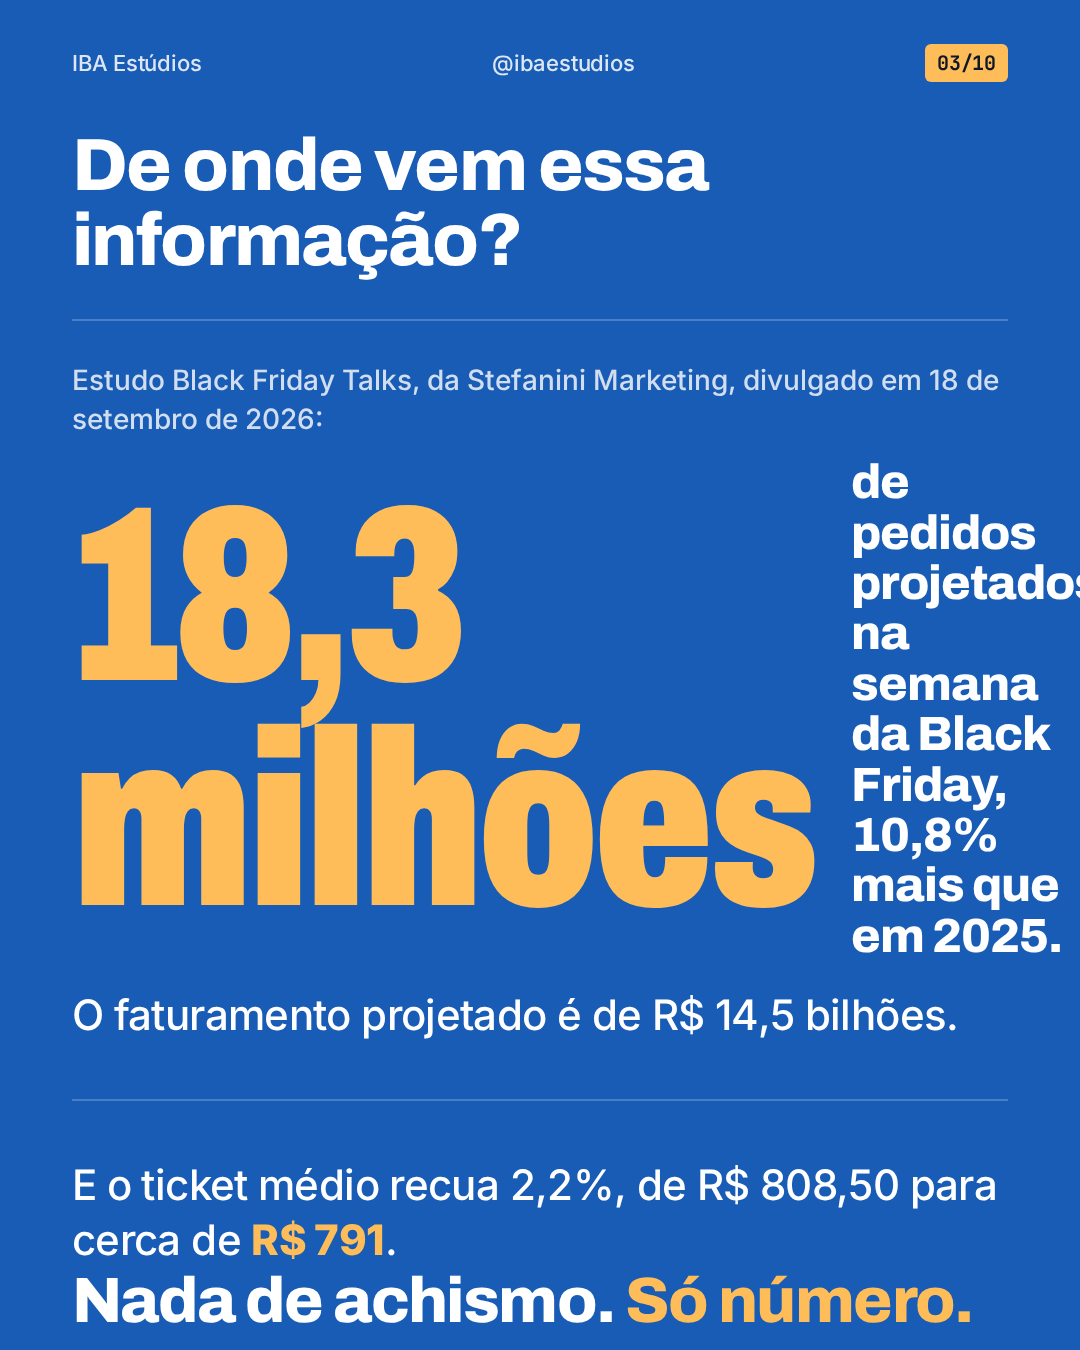
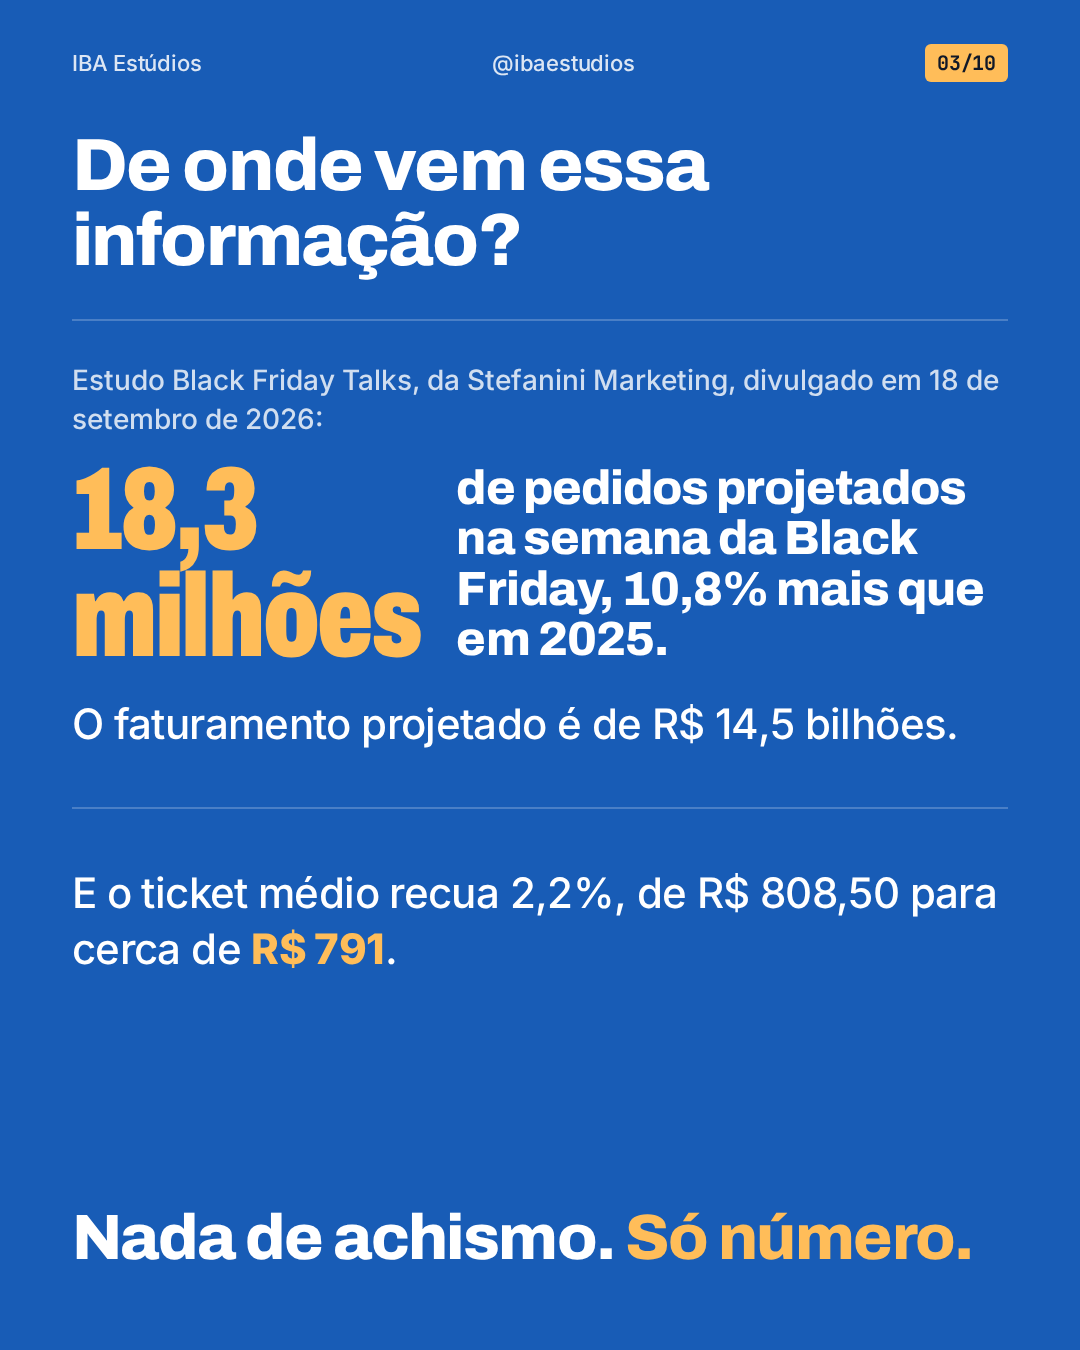
carrosseis: margens medidas (numero escala pelo comprimento, texto com tam_corpo) + sensor mede_margens

Changed region(s): [[0.0611, 0.3422, 1.0, 0.7156], [0.0611, 0.8711, 0.9167, 0.9956], [0.0611, 0.7156, 0.8861, 0.7778]]

diff --git a/conteudo/carrosseis/pico-de-novembro/instagram/slide-02.html b/conteudo/carrosseis/pico-de-novembro/instagram/slide-02.html
@@ -5,9 +5,9 @@
 <div class="slide branco">
   <div class="topo"><span>IBA Estúdios</span><span>@ibaestudios</span><span class="num">02/10</span></div>
 
-  <h2 class="h" style="font-size:88px">A data deste ano vem com <em>mais pedido e menos ticket</em>.</h2>
+  <h2 class="h" style="font-size:76px">A data deste ano vem com <em>mais pedido e menos ticket</em>.</h2>
   <hr style="margin:56px 0">
-  <p class="p" style="font-size:44px">O estudo Black Friday Talks, feito pela Stefanini Marketing e divulgado em setembro, projetou 18,3 milhões de pedidos na semana da data, 10,8% mais que em 2025, com faturamento perto de R$ 14,5 bilhões e ticket médio 2,2% menor. Mais gente perguntando, compra menor e volume de conversa muito maior.</p>
+  <p class="p" style="font-size:38px">O estudo Black Friday Talks, da Stefanini Marketing, projetou 18,3 milhões de pedidos na semana da data, 10,8% mais que em 2025, com ticket médio 2,2% menor. Mais gente perguntando, compra menor e volume de conversa muito maior.</p>
   <div class="spacer"></div>
   <p class="p"><span class="sub">O que isso mexe:</span></p>
   <ul class="setas" style="margin-top:28px"><li>O tempo de resposta, que já é o gargalo nos dias comuns</li><li>A dúvida repetida (preço, prazo, entrega), que consome o dia inteiro</li><li>A venda de quem demora, que o cliente faz no concorrente que respondeu primeiro</li></ul>

diff --git a/conteudo/carrosseis/golpe-que-usa-seu-nome/instagram/slide-02.html b/conteudo/carrosseis/golpe-que-usa-seu-nome/instagram/slide-02.html
@@ -5,9 +5,9 @@
 <div class="slide branco">
   <div class="topo"><span>IBA Estúdios</span><span>@ibaestudios</span><span class="num">02/10</span></div>
 
-  <h2 class="h" style="font-size:88px">O golpista parou de mandar texto genérico. Ele agora copia <em>a sua loja</em>.</h2>
+  <h2 class="h" style="font-size:80px">O golpista parou de mandar texto genérico. Ele agora copia <em>a sua loja</em>.</h2>
   <hr style="margin:56px 0">
-  <p class="p" style="font-size:44px">O relatório State of Scams in Brazil, da Global Anti-Scam Alliance, saiu em agosto. O criminoso não manda mais aquele texto esquisito para todo mundo: ele monta o perfil da sua loja, usa a sua logo e conversa como se fosse o seu atendimento.</p>
+  <p class="p" style="font-size:40px">O relatório State of Scams in Brazil, da Global Anti-Scam Alliance, saiu em agosto. O criminoso não manda mais aquele texto esquisito para todo mundo: ele monta o perfil da sua loja, usa a sua logo e conversa como se fosse o seu atendimento.</p>
   <div class="spacer"></div>
   <p class="p"><span class="sub">O que isso mexe:</span></p>
   <ul class="setas" style="margin-top:28px"><li>A confiança de quem te procura pela primeira vez</li><li>O nome da sua marca, queimado por um golpe que não é seu</li><li>O cliente que some sem reclamar, porque achou que você aplicou o golpe</li></ul>

diff --git a/conteudo/carrosseis/golpe-que-usa-seu-nome/instagram/slide-03.html b/conteudo/carrosseis/golpe-que-usa-seu-nome/instagram/slide-03.html
@@ -12,7 +12,7 @@
   <h2 class="h">De onde vem essa informação?</h2>
   <hr>
   <p class="mini" style="font-size:28px;opacity:.8">Relatório State of Scams in Brazil, da Global Anti-Scam Alliance, divulgado em agosto de 2026:</p>
-  <div class="big"><span class="n">64%</span><span class="t">das tentativas de golpe no Brasil passam pelo WhatsApp.</span></div>
+  <div class="big"><span class="n" style="font-size:250px">64%</span><span class="t">das tentativas de golpe no Brasil passam pelo WhatsApp.</span></div>
   <p class="p" style="font-size:42px">É o canal onde o seu negócio atende todo dia.</p>
   <hr style="margin:56px 0"><p class="p" style="font-size:42px">No mesmo relatório, 16,5 milhões de brasileiros perderam dinheiro, com prejuízo estimado em <b class="dest">R$ 21,2 bilhões</b>.</p><div class="spacer"></div><p class="h" style="font-size:64px">Nada de achismo. <em>Só número.</em></p>
 </div>

diff --git a/conteudo/carrosseis/pico-de-novembro/instagram/slide-03.html b/conteudo/carrosseis/pico-de-novembro/instagram/slide-03.html
@@ -12,7 +12,7 @@
   <h2 class="h">De onde vem essa informação?</h2>
   <hr>
   <p class="mini" style="font-size:28px;opacity:.8">Estudo Black Friday Talks, da Stefanini Marketing, divulgado em 18 de setembro de 2026:</p>
-  <div class="big"><span class="n">18,3 milhões</span><span class="t">de pedidos projetados na semana da Black Friday, 10,8% mais que em 2025.</span></div>
+  <div class="big"><span class="n" style="font-size:118px">18,3 milhões</span><span class="t">de pedidos projetados na semana da Black Friday, 10,8% mais que em 2025.</span></div>
   <p class="p" style="font-size:42px">O faturamento projetado é de R$ 14,5 bilhões.</p>
   <hr style="margin:56px 0"><p class="p" style="font-size:42px">E o ticket médio recua 2,2%, de R$ 808,50 para cerca de <b class="dest">R$ 791</b>.</p><div class="spacer"></div><p class="h" style="font-size:64px">Nada de achismo. <em>Só número.</em></p>
 </div>

diff --git a/conteudo/carrosseis/pico-de-novembro/instagram/slide-10.html b/conteudo/carrosseis/pico-de-novembro/instagram/slide-10.html
@@ -13,7 +13,7 @@
   <p class="p" style="margin-top:22px;font-size:44px;font-weight:700;color:var(--laranja)">E no dia 27, com bem mais mensagem chegando ao mesmo tempo?</p>
   <img class="foto" src="../imagens/celular.jpg" style="height:400px;margin:40px 0 44px;object-position:50% 35%" alt="">
   <div class="cta">Comenta <b>"BLACKFRIDAY"</b></div>
-  <p class="p" style="margin-top:28px;font-size:34px">e eu te mando uma análise gratuita: 2 a 3 pontos onde o seu negócio perde venda no dia de pico.</p>
+  <p class="p" style="margin-top:28px;font-size:34px">e eu te mando uma análise gratuita: 2 a 3 pontos onde o seu negócio perde venda.</p>
   <div class="spacer"></div>
   <div class="assina"><img src="../../_modelo/marca/no-branco.png" alt=""><span>a IBA dá um nó nos seus processos 🐙</span></div>
 </div>

diff --git a/conteudo/carrosseis/golpe-que-usa-seu-nome/instagram/slide-10.html b/conteudo/carrosseis/golpe-que-usa-seu-nome/instagram/slide-10.html
@@ -13,7 +13,7 @@
   <p class="p" style="margin-top:22px;font-size:44px;font-weight:700;color:var(--laranja)">Antes de pagar, ele consegue confirmar que o canal é o seu?</p>
   <img class="foto" src="../imagens/balcao.jpg" style="height:400px;margin:40px 0 44px;object-position:50% 35%" alt="">
   <div class="cta">Comenta <b>"SEGURANCA"</b></div>
-  <p class="p" style="margin-top:28px;font-size:34px">e eu te mando uma análise gratuita: 2 a 3 pontos onde o seu negócio perde cliente hoje.</p>
+  <p class="p" style="margin-top:28px;font-size:34px">e eu te mando uma análise gratuita: 2 a 3 pontos onde o seu negócio perde cliente.</p>
   <div class="spacer"></div>
   <div class="assina"><img src="../../_modelo/marca/no-branco.png" alt=""><span>a IBA dá um nó nos seus processos 🐙</span></div>
 </div>

diff --git a/conteudo/carrosseis/_modelo/mede_margens.py b/conteudo/carrosseis/_modelo/mede_margens.py
@@ -1,0 +1,81 @@
+"""Mede as margens dos PNGs de um carrossel ja renderizado.
+
+Uso:  /opt/data/.venv/bin/python conteudo/carrosseis/_modelo/mede_margens.py <tema>
+
+Regra do formato: 72px nas laterais e 80px na base. Saem da conta o slide 1 (capa, com foto
+em tela cheia) e o slide 6 (conversa, cujo painel e largo por desenho, igual aos carrosseis
+ja aprovados).
+
+Quando acusa, quase sempre e uma destas duas coisas:
+- layout `texto` com corpo comprido: o texto empurra a base para fora (encurtar ou passar
+  tam_titulo/tam_corpo menores);
+- layout `numero` com numero longo: o corpo do numero estoura a direita (o modelo ja reduz
+  o tamanho pelo comprimento do numero).
+
+Sai com codigo 1 quando algum slide fica fora da margem.
+"""
+import os
+import sys
+from collections import Counter
+
+try:
+    from PIL import Image, ImageChops
+except ImportError:
+    sys.exit("precisa do Pillow: rode com /opt/data/.venv/bin/python")
+
+ESQ = DIR = 72
+BASE = 80
+IGNORAR = {1, 6}
+TOLERANCIA = 3
+
+
+def medir(png):
+    im = Image.open(png).convert("RGB")
+    largura, altura = im.size
+    fundo = Counter(im.get_flattened_data() if hasattr(im, "get_flattened_data") else im.getdata()).most_common(1)[0][0]
+    bbox = ImageChops.difference(im, Image.new("RGB", im.size, fundo)).getbbox()
+    if not bbox:
+        return None
+    esq, _, dir_, base = bbox
+    return esq, largura - dir_, altura - base
+
+
+def main(pasta_tema):
+    instagram = os.path.join(pasta_tema, "instagram")
+    if not os.path.isdir(instagram):
+        sys.exit(f"sem pasta instagram em {pasta_tema}")
+    pngs = sorted(p for p in os.listdir(instagram) if p.endswith(".png"))
+    if not pngs:
+        sys.exit(f"sem PNG em {instagram}")
+    fora = 0
+    print(f"{os.path.basename(pasta_tema.rstrip('/'))}: {len(pngs)} slides")
+    for nome in pngs:
+        numero = int(nome.split("-")[1].split(".")[0])
+        if numero in IGNORAR:
+            continue
+        m = medir(os.path.join(instagram, nome))
+        if m is None:
+            print(f"  slide {numero:02d}: vazio")
+            continue
+        esq, dir_, base = m
+        problemas = []
+        if esq < ESQ - TOLERANCIA:
+            problemas.append(f"esquerda {esq}px (minimo {ESQ})")
+        if dir_ < DIR - TOLERANCIA:
+            problemas.append(f"direita {dir_}px (minimo {DIR})")
+        if base < BASE - TOLERANCIA:
+            problemas.append(f"base {base}px (minimo {BASE})")
+        if problemas:
+            fora += 1
+            print(f"  slide {numero:02d}: FORA - " + "; ".join(problemas))
+    if fora:
+        print(f"resultado: {fora} slide(s) fora da margem")
+        return 1
+    print("resultado: todas as margens ok")
+    return 0
+
+
+if __name__ == "__main__":
+    if len(sys.argv) < 2:
+        sys.exit("uso: mede_margens.py <pasta do tema>")
+    raise SystemExit(main(sys.argv[1]))

diff --git a/conteudo/carrosseis/pico-de-novembro/roteiro.py b/conteudo/carrosseis/pico-de-novembro/roteiro.py
@@ -10,10 +10,11 @@ slides = [
     capa('capa.jpg', 'O pico de novembro', 'se prepara agora', 'Atendimento, resposta e informação na mão do cliente',
          fundo='branco', foto_css='width:1200px;height:1800px;left:-60px;top:-430px'),
     texto('branco', 'A data deste ano vem com *mais pedido e menos ticket*.',
-          'O estudo Black Friday Talks, feito pela Stefanini Marketing e divulgado em setembro, projetou 18,3 milhões de pedidos na semana da data, 10,8% mais que em 2025, com faturamento perto de R$ 14,5 bilhões e ticket médio 2,2% menor. Mais gente perguntando, compra menor e volume de conversa muito maior.',
+          'O estudo Black Friday Talks, da Stefanini Marketing, projetou 18,3 milhões de pedidos na semana da data, 10,8% mais que em 2025, com ticket médio 2,2% menor. Mais gente perguntando, compra menor e volume de conversa muito maior.',
           'O que isso mexe:', ['O tempo de resposta, que já é o gargalo nos dias comuns',
                                'A dúvida repetida (preço, prazo, entrega), que consome o dia inteiro',
-                               'A venda de quem demora, que o cliente faz no concorrente que respondeu primeiro']),
+                               'A venda de quem demora, que o cliente faz no concorrente que respondeu primeiro'],
+          tam_titulo=76, tam_corpo=38),
     numero('azul', 'De onde vem essa informação?',
            'Estudo Black Friday Talks, da Stefanini Marketing, divulgado em 18 de setembro de 2026:',
            '18,3 milhões', 'de pedidos projetados na semana da Black Friday, 10,8% mais que em 2025.',
@@ -53,7 +54,7 @@ slides = [
     cta('Quanto tempo o seu atendimento demora para responder hoje?',
         'E no dia 27, com bem mais mensagem chegando ao mesmo tempo?',
         'celular.jpg', 'BLACKFRIDAY',
-        'e eu te mando uma análise gratuita: 2 a 3 pontos onde o seu negócio perde venda no dia de pico.', foco='50% 35%'),
+        'e eu te mando uma análise gratuita: 2 a 3 pontos onde o seu negócio perde venda.', foco='50% 35%'),
 ]
 
 gerar(os.path.dirname(os.path.abspath(__file__)), slides)

diff --git a/conteudo/carrosseis/_modelo/iba_carrossel.py b/conteudo/carrosseis/_modelo/iba_carrossel.py
@@ -65,7 +65,7 @@ def capa(foto, titulo, destaque, chamada, foto_css='width:1200px;height:1800px;l
     return ('capa', body, css)
 
 
-def texto(fundo, titulo, corpo, rotulo=None, itens=(), tam_titulo=88):
+def texto(fundo, titulo, corpo, rotulo=None, itens=(), tam_titulo=88, tam_corpo=44):
     """Título grande, parágrafo e (opcional) lista com setas ancorada embaixo."""
     lista = ''
     if itens:
@@ -75,7 +75,7 @@ def texto(fundo, titulo, corpo, rotulo=None, itens=(), tam_titulo=88):
     body = f'''
   <h2 class="h" style="font-size:{tam_titulo}px">{_fmt(titulo)}</h2>
   <hr style="margin:56px 0">
-  <p class="p" style="font-size:44px">{_fmt(corpo)}</p>
+  <p class="p" style="font-size:{tam_corpo}px">{_fmt(corpo)}</p>
   {lista}'''
     return (fundo, body, '')
 
@@ -92,11 +92,12 @@ def numero(fundo, titulo, intro, numero, legenda, corpo, segundo=None, fecho=Non
         extra += f'<hr style="margin:56px 0"><p class="p" style="font-size:42px">{_fmt(segundo)}</p>'
     if fecho:
         extra += f'<div class="spacer"></div><p class="h" style="font-size:64px">{_fmt(fecho)}</p>'
+    tam_n = 250 if len(numero) <= 3 else 190 if len(numero) <= 5 else 150 if len(numero) <= 8 else 118
     body = f'''
   <h2 class="h">{_fmt(titulo)}</h2>
   <hr>
   <p class="mini" style="font-size:28px;opacity:.8">{_fmt(intro)}</p>
-  <div class="big"><span class="n">{html.escape(numero)}</span><span class="t">{_fmt(legenda)}</span></div>
+  <div class="big"><span class="n" style="font-size:{tam_n}px">{html.escape(numero)}</span><span class="t">{_fmt(legenda)}</span></div>
   <p class="p" style="font-size:42px">{_fmt(corpo)}</p>
   {extra}'''
     return (fundo, body, css)

diff --git a/conteudo/carrosseis/golpe-que-usa-seu-nome/roteiro.py b/conteudo/carrosseis/golpe-que-usa-seu-nome/roteiro.py
@@ -12,7 +12,8 @@ slides = [
           'O relatório State of Scams in Brazil, da Global Anti-Scam Alliance, saiu em agosto. O criminoso não manda mais aquele texto esquisito para todo mundo: ele monta o perfil da sua loja, usa a sua logo e conversa como se fosse o seu atendimento.',
           'O que isso mexe:', ['A confiança de quem te procura pela primeira vez',
                                'O nome da sua marca, queimado por um golpe que não é seu',
-                               'O cliente que some sem reclamar, porque achou que você aplicou o golpe']),
+                               'O cliente que some sem reclamar, porque achou que você aplicou o golpe'],
+          tam_titulo=80, tam_corpo=40),
     numero('azul', 'De onde vem essa informação?',
            'Relatório State of Scams in Brazil, da Global Anti-Scam Alliance, divulgado em agosto de 2026:',
            '64%', 'das tentativas de golpe no Brasil passam pelo WhatsApp.',
@@ -53,7 +54,7 @@ slides = [
     cta('O que o seu cliente encontra quando procura o seu negócio?',
         'Antes de pagar, ele consegue confirmar que o canal é o seu?',
         'balcao.jpg', 'SEGURANCA',
-        'e eu te mando uma análise gratuita: 2 a 3 pontos onde o seu negócio perde cliente hoje.', foco='50% 35%'),
+        'e eu te mando uma análise gratuita: 2 a 3 pontos onde o seu negócio perde cliente.', foco='50% 35%'),
 ]
 
 gerar(os.path.dirname(os.path.abspath(__file__)), slides)

diff --git a/skills/carrossel-iba/SKILL.md b/skills/carrossel-iba/SKILL.md
@@ -68,8 +68,9 @@ Só termos com snapshot arquivado funcionam. Vale usar as palavras mais simples 
 1. Criar `conteudo/carrosseis/<tema>/roteiro.py` (copiar de um tema existente) e salvar as fotos em `<tema>/imagens/`
 2. `python3 conteudo/carrosseis/<tema>/roteiro.py`
 3. `node conteudo/carrosseis/_modelo/render.js conteudo/carrosseis/<tema>/instagram/slide-*.html`
-4. Conferir **todos** os PNGs (montagem 5x2): rosto cortado, texto encavalado, buraco grande, foto escura. Ajustar `foco`/`foto_css` e renderizar de novo
-5. Salvar `carousel-text.md` com legenda, fontes e créditos das fotos
+4. Medir a margem antes de olhar: `/opt/data/.venv/bin/python conteudo/carrosseis/_modelo/mede_margens.py conteudo/carrosseis/<tema>` (72px nas laterais, 80px na base). Corpo comprido estoura a base no layout `texto`; numero longo estoura a direita no `numero`
+5. Conferir **todos** os PNGs (montagem 5x2): rosto cortado, texto encavalado, buraco grande, foto escura. Ajustar `foco`/`foto_css` e renderizar de novo
+6. Salvar `carousel-text.md` com legenda, fontes e créditos das fotos
 
 ## Saída
 
